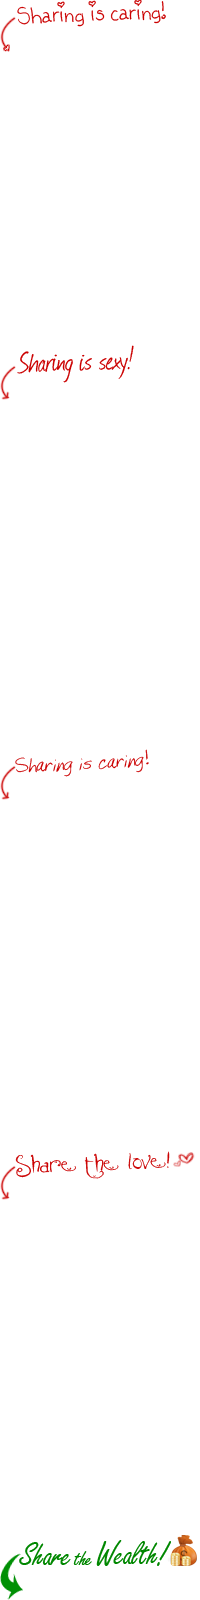
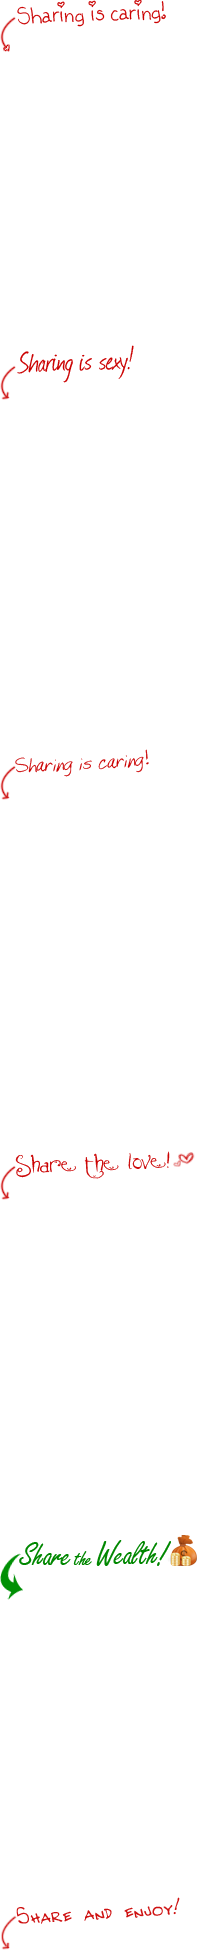
Added a new bg image (Share and enjoy)
git-svn-id: https://plugins.svn.wordpress.org/sexybookmarks@149280 b8457f37-d9ea-0310-8a92-e5e31aec5664

diff --git a/trunk/css/style.css b/trunk/css/style.css
@@ -6,7 +6,7 @@ div.sexy-bookmarks-expand {
 	height: 29px;
 	overflow: hidden;
 }
-.sexy-bookmarks-bg-sexy, .sexy-bookmarks-bg-caring, .sexy-bookmarks-bg-caring-old, .sexy-bookmarks-bg-love, .sexy-bookmarks-bg-wealth {
+.sexy-bookmarks-bg-sexy, .sexy-bookmarks-bg-caring, .sexy-bookmarks-bg-caring-old, .sexy-bookmarks-bg-love, .sexy-bookmarks-bg-wealth, .sexy-bookmarks-bg-enjoy {
 	background-image:url('../images/sexy-trans.png') !important;
 	background-repeat: no-repeat;
 }
@@ -30,6 +30,10 @@ div.sexy-bookmarks-bg-wealth {
 	margin-left: 15px !important;
 	padding: 35px 0 0 20px;
 	background-position: left -1535px !important;
+}
+div.sexy-bookmarks-bg-love {
+	padding: 26px 0 0 10px;
+	background-position: left -1895px !important;
 }
 div.sexy-bookmarks ul.socials {
 	width:100% !important;

diff --git a/trunk/css/admin-style.css b/trunk/css/admin-style.css
@@ -49,8 +49,11 @@ div.sexy-wrap {
 	background:transparent url('../images/sexy-trans.png') no-repeat scroll 0 -1146px;
 }
 .share-wealth {
-	background:transparent url('../images/sexy-trans.png') no-repeat scroll 0 bottom;
+	background:transparent url('../images/sexy-trans.png') no-repeat scroll 0 -1535px;
 	padding:50px 0 0 25px !important;
+}
+.share-enjoy {
+	background:transparent url('../images/sexy-trans.png') no-repeat scroll 0 -1895px;
 }
 .bgimg {
 	display:block;

diff --git a/trunk/sexy-bookmarks.php b/trunk/sexy-bookmarks.php
@@ -436,6 +436,9 @@ function sexy_settings_page() {
 							<label class="bgimg share-wealth">
 								<input <?php echo (($sexy_plugopts['bgimg'] == "wealth")? 'checked="checked"' : ""); ?> id="bgimg-wealth" name="bgimg" type="radio" value="wealth" />
 							</label>
+							<label class="bgimg share-enjoy">
+								<input <?php echo (($sexy_plugopts['bgimg'] == "enjoy")? 'checked="checked"' : ""); ?> id="bgimg-enjoy" name="bgimg" type="radio" value="enjoy" />
+							</label>
 						</div>
 					</div>
 				</div>
@@ -579,7 +582,7 @@ function sexy_settings_page() {
 			</div>
 		</div>
 	</div>
-	<div class="box-right sexy-donation-box" id="sexydonationsbox">
+	<div class="box-right sexy-donation-box">
 		<div class="box-right-head">
 			<img src="<?php echo SEXY_PLUGPATH; ?>images/icons/money-coin.png" alt="" class="box-icons" />
 			<h3><?php _e('Support by Donating', 'sexybookmarks'); ?></h3>
@@ -893,8 +896,10 @@ function get_sexy() {
 		$bgchosen = ' sexy-bookmarks-bg-caring-old';
 	} elseif($sexy_plugopts['bgimg'] == 'love') {
 		$bgchosen = ' sexy-bookmarks-bg-love';
-	}  elseif($sexy_plugopts['bgimg'] == 'wealth') {
+	} elseif($sexy_plugopts['bgimg'] == 'wealth') {
 		$bgchosen = ' sexy-bookmarks-bg-wealth';
+	} elseif($sexy_plugopts['bgimg'] == 'enjoy') {
+		$bgchosen = ' sexy-bookmarks-bg-enjoy';
 	}
 	
 	// do not add inline styles to the feed.
